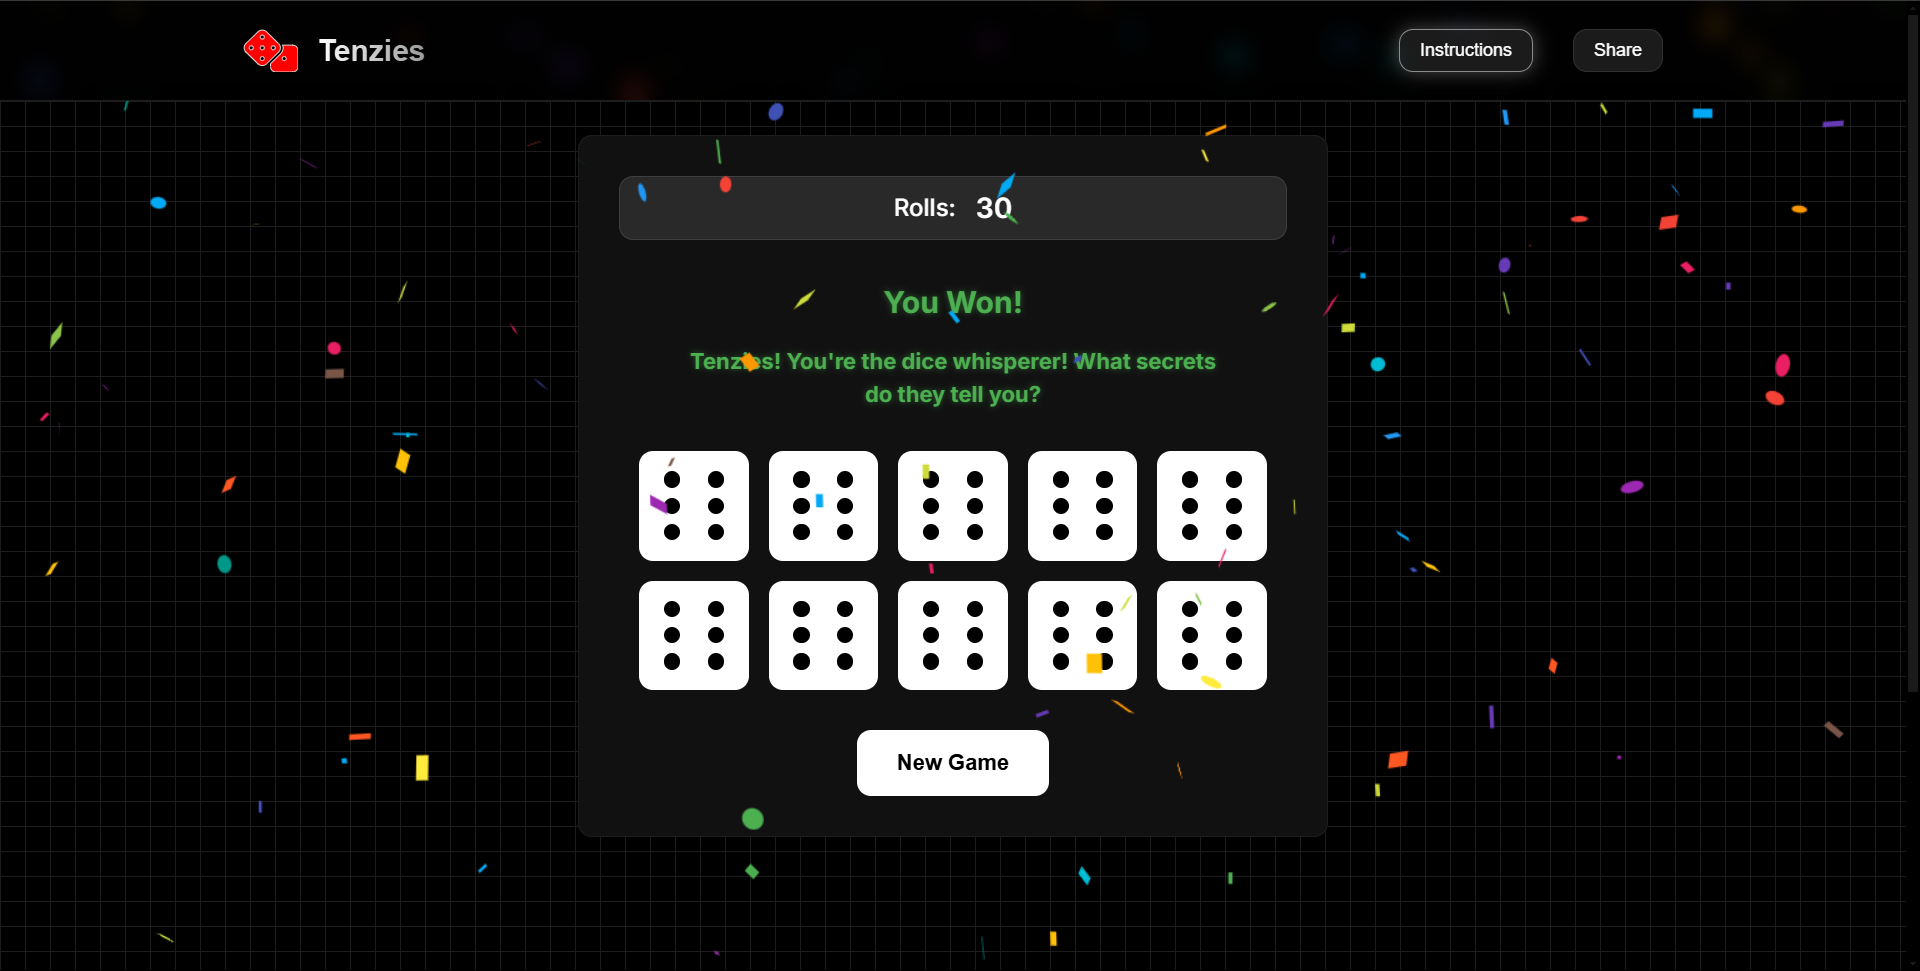
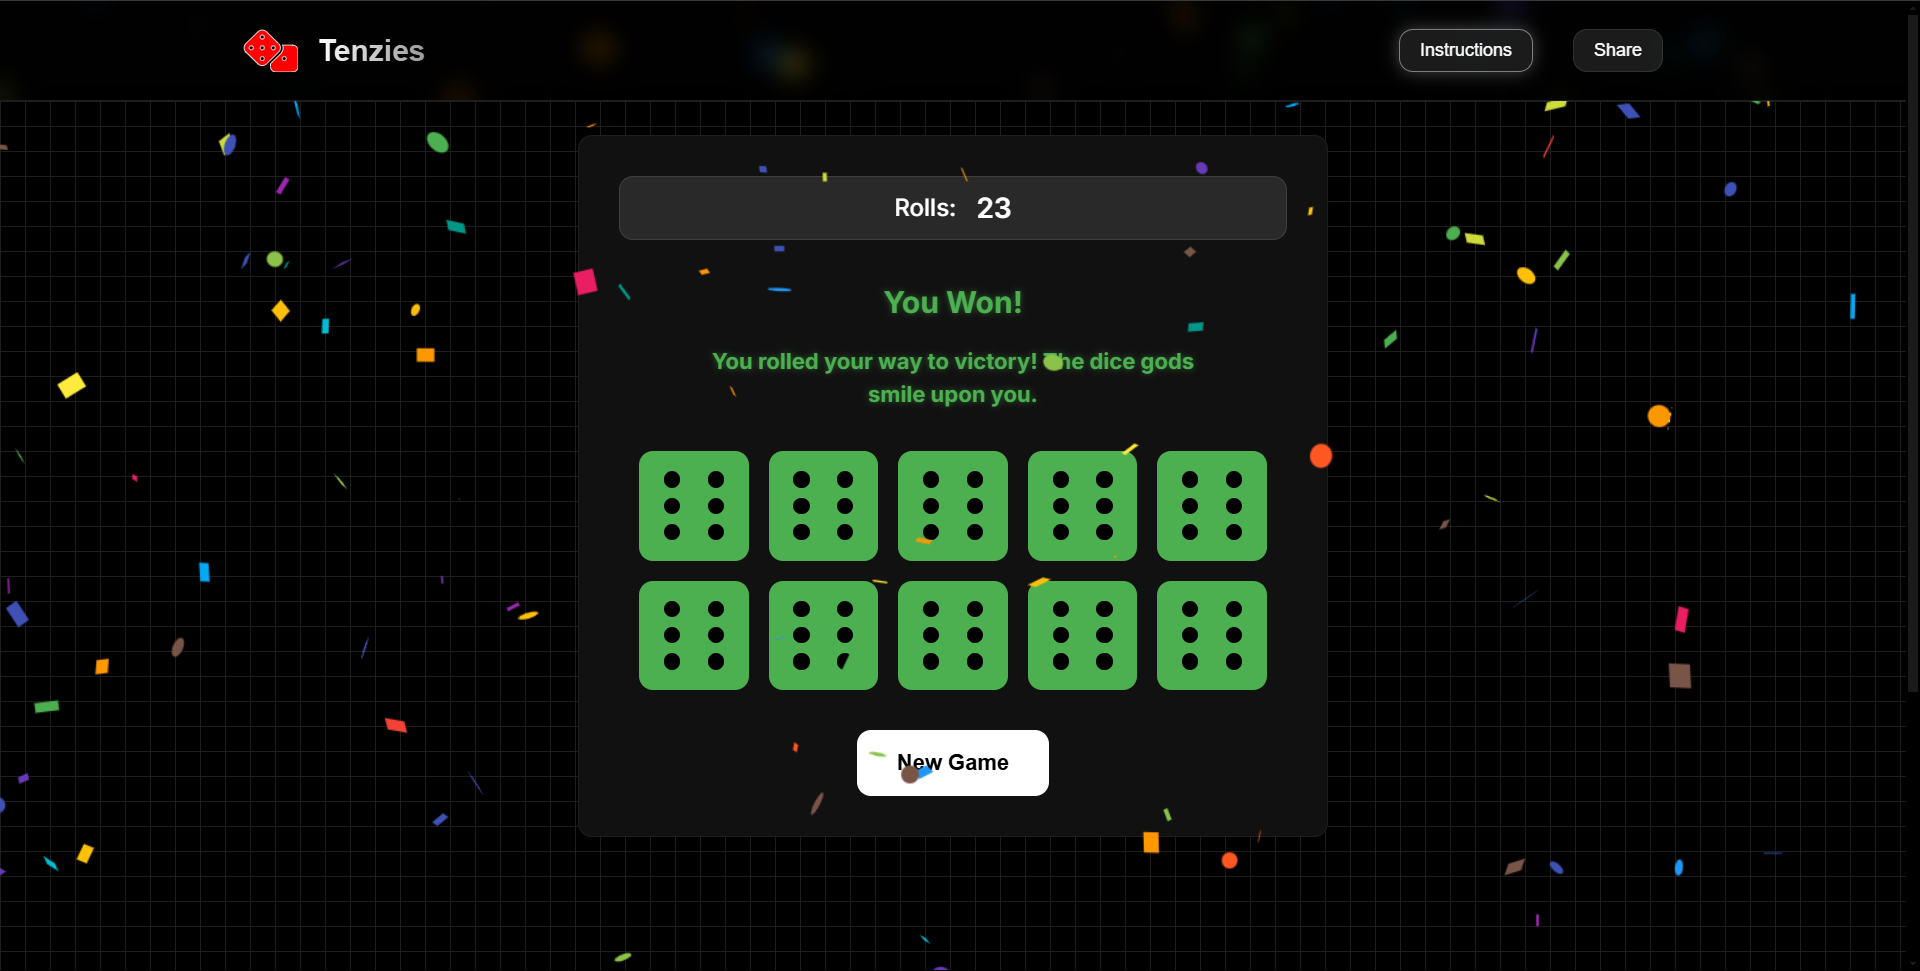
refactor: Update Die component to display winning and losing dice
- Added 'tenzies' and 'lost' props to the Die component to indicate if the dice are part of a winning combination or if the game is lost.
- Updated the className of the Die component to include 'won' or 'loss' based on the 'tenzies' and 'lost' props.
- Updated the index.css file to define the background color for winning and losing dice.

diff --git a/src/components/Die.jsx b/src/components/Die.jsx
@@ -1,7 +1,7 @@
 import React from "react";
 import { motion } from "framer-motion";
 
-const Die = ({ value, isHeld, holdDice, rolling }) => {
+const Die = ({ value, isHeld, holdDice, rolling, tenzies, lost }) => {
     const dotVariants = {
         initial: { scale: 0, opacity: 0 },
         animate: { scale: 1, opacity: 1 },
@@ -40,7 +40,7 @@ const Die = ({ value, isHeld, holdDice, rolling }) => {
 
     return (
         <motion.div
-            className={`die-face ${isHeld ? 'held' : ''}`}
+            className={`die-face ${isHeld ? 'held' : ''} ${tenzies ? 'won' : lost ? 'loss' : '' }`}
             data-value={value}
             onClick={holdDice}
             whileHover={{ scale: 1.1 }}

diff --git a/src/App.jsx b/src/App.jsx
@@ -109,6 +109,8 @@ export default function App() {
             isHeld={heldDiceIds.has(die.id)}
             holdDice={() => holdDice(die.id)}
             rolling={rolling || tenzies || lost}
+            tenzies={tenzies}
+            lost={lost}
         />
     ));
 

diff --git a/src/index.css b/src/index.css
@@ -401,6 +401,14 @@ body {
   border-color: var(--primary);
 }
 
+.die-face.held.won {
+    background-color: #4CAF50;
+}
+
+.die-face.held.loss {
+    background-color: #ff6565;
+}
+
 .die-face.held .dot {
   background-color: var(--background);
 }
